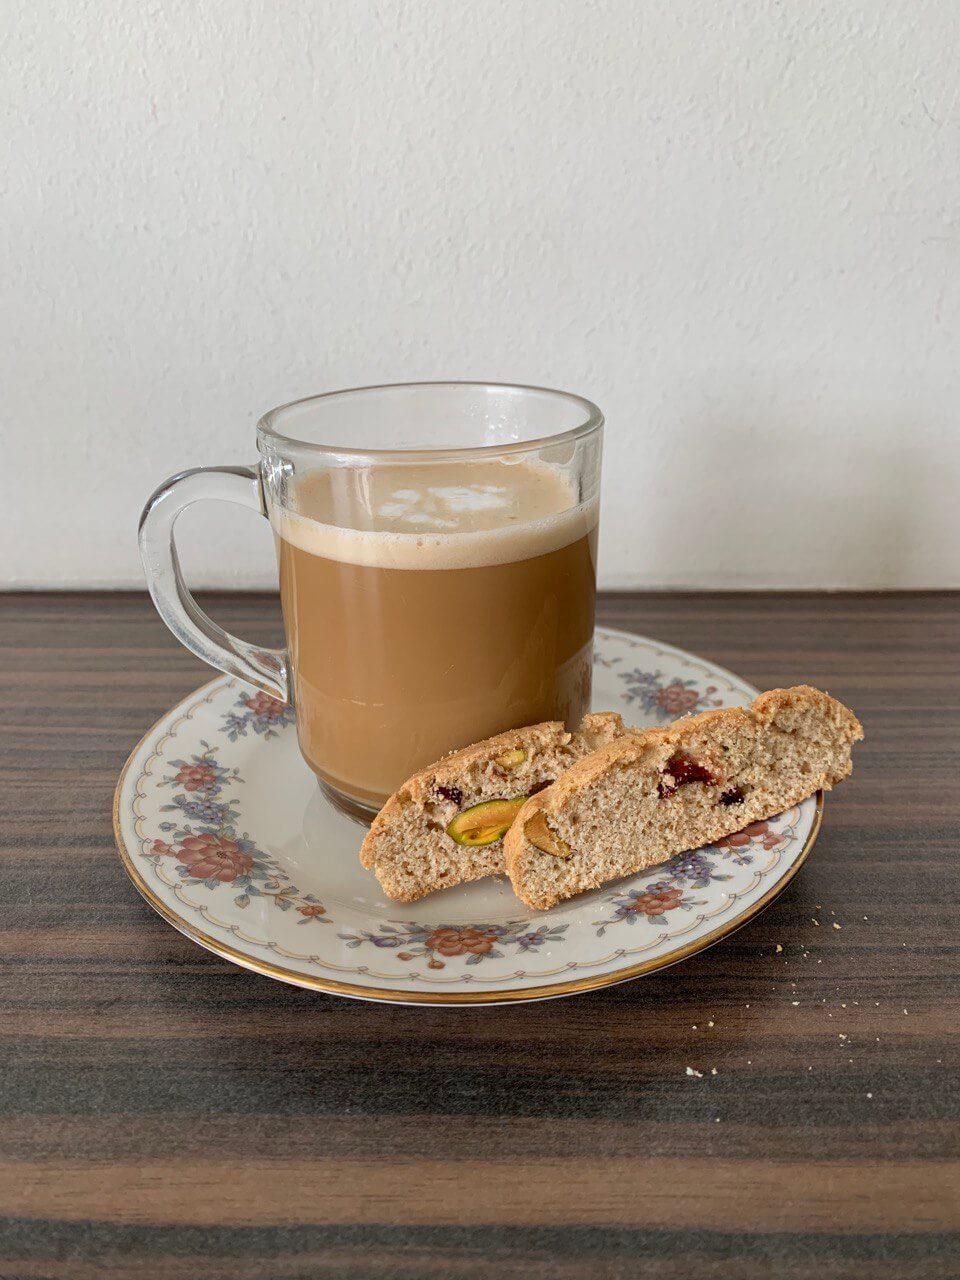
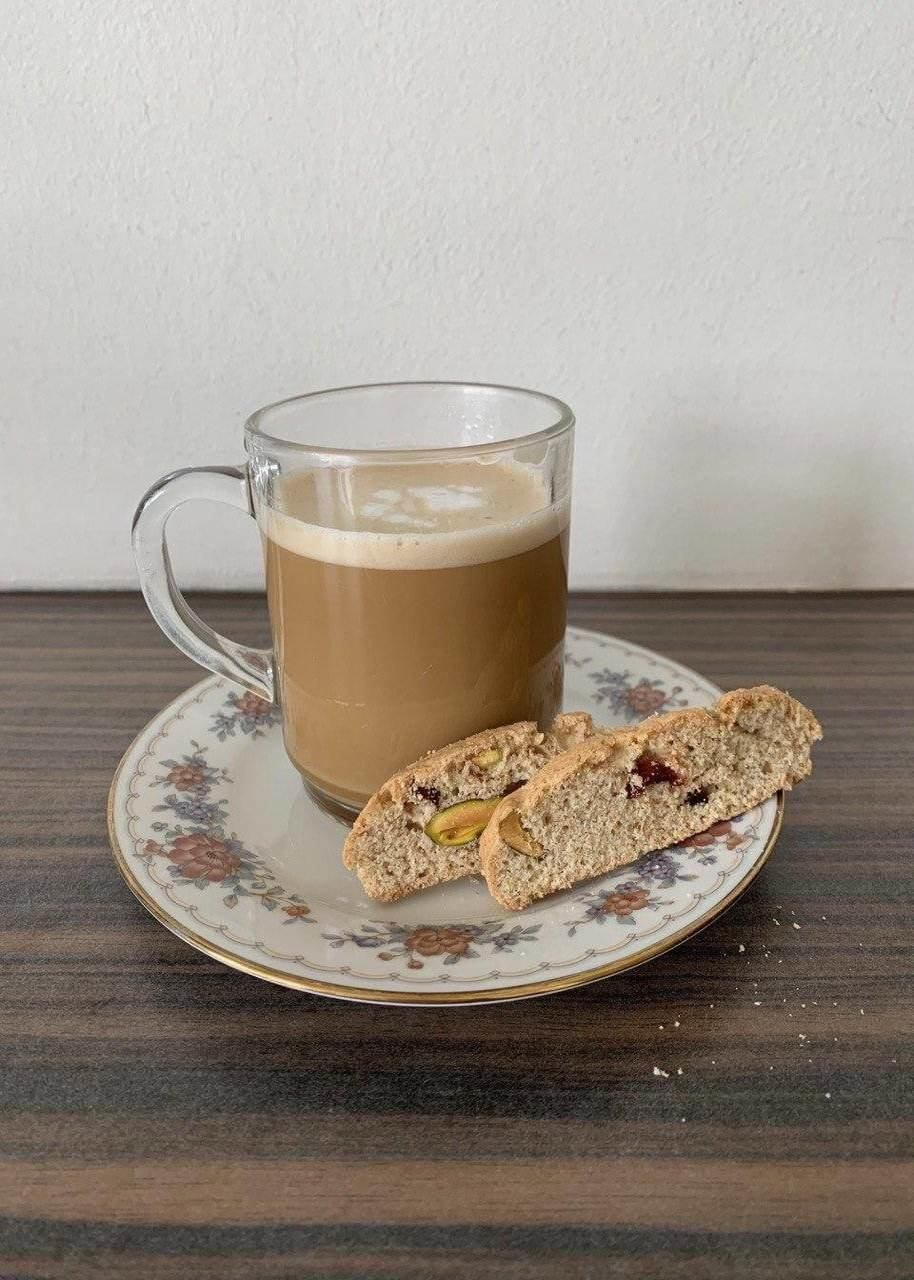
updated images and added lemon cake

diff --git a/templates/products.html b/templates/products.html
@@ -3,7 +3,6 @@
 {% block title %}Products{% endblock %}
 
 {% block main %}
-
 <div class="container justify-content-start p-3">
     <h2 class="p-3">Cookies</h2>
     <div class="row">
@@ -28,9 +27,9 @@
             <div class="card">
                 <a href="/biscotti">
                     <svg class="bd-placeholder-img card-img-top" width="100%" height="180"
-                    xmlns="http://www.w3.org/2000/svg" preserveAspectRatio="xMidYMid slice" focusable="false" role="img"
-                    aria-label="Placeholder: Image cap">
-                    <rect width="100%" height="100%" fill="#868e96"></rect>
+                        xmlns="http://www.w3.org/2000/svg" preserveAspectRatio="xMidYMid slice" focusable="false"
+                        role="img" aria-label="Placeholder: Image cap">
+                        <rect width="100%" height="100%" fill="#868e96"></rect>
                     </svg>
                 </a>
                 <div class="card-body">
@@ -49,26 +48,32 @@
     <div class="card-deck">
         <div class="card">
             <a href="/hummingbird">
-                <svg class="bd-placeholder-img card-img-top" width="100%" height="180" xmlns="http://www.w3.org/2000/svg"
-                preserveAspectRatio="xMidYMid slice" focusable="false" role="img" aria-label="Placeholder: Image cap">
-                <rect width="100%" height="100%" fill="#868e96"></rect>
+                <svg class="bd-placeholder-img card-img-top" width="100%" height="180"
+                    xmlns="http://www.w3.org/2000/svg" preserveAspectRatio="xMidYMid slice" focusable="false" role="img"
+                    aria-label="Placeholder: Image cap">
+                    <rect width="100%" height="100%" fill="#868e96"></rect>
                 </svg>
             </a>
             <div class="card-body">
                 <a href="/hummingbird">
                     <h5 class="card-title">Hummingbird Cake</h5>
                 </a>
-                <p class="card-text">$13/16</p>
+                <p class="card-text">$16</p>
             </div>
         </div>
         <div class="card">
-            <svg class="bd-placeholder-img card-img-top" width="100%" height="180" xmlns="http://www.w3.org/2000/svg"
-                preserveAspectRatio="xMidYMid slice" focusable="false" role="img" aria-label="Placeholder: Image cap">
-                <rect width="100%" height="100%" fill="#868e96"></rect>
-            </svg>
+            <a href="/lemon_cake">
+                <svg class="bd-placeholder-img card-img-top" width="100%" height="180"
+                    xmlns="http://www.w3.org/2000/svg" preserveAspectRatio="xMidYMid slice" focusable="false" role="img"
+                    aria-label="Placeholder: Image cap">
+                    <rect width="100%" height="100%" fill="#868e96"></rect>
+                </svg>
+            </a>
             <div class="card-body">
-                <h5 class="card-title">Lemon Chia Seed Cake</h5>
-                <p class="card-text">$13/16</p>
+                <a href="/lemon_cake">
+                    <h5 class="card-title">Lemon Chia Seed Cake</h5>
+                </a>
+                <p class="card-text">$16</p>
             </div>
         </div>
         <div class="card">
@@ -84,5 +89,4 @@
         </div>
     </div>
 </div>
-
 {% endblock %}

diff --git a/templates/lemon_cake.html b/templates/lemon_cake.html
@@ -1,0 +1,52 @@
+{% extends "layout.html" %}
+
+{% block title %}Lemon Chia Seed Cake{% endblock %}
+
+{% block main %}
+<div class="container">
+    <a href="/products" style="color: black;" class="mx-3 my-3 no-underline">
+        <h6>❮ back to products</h6>
+    </a>
+</div>
+<div class="container" id="lemon_container">
+    <div class="row justify-content-start">
+        <div class="col-sm-4 col-12">
+            <div id="lemon" class="carousel slide" data-ride="carousel">
+                <ol class="carousel-indicators">
+                    <li data-target="#lemon" data-slide-to="0" class="active"></li>
+                    <li data-target="#lemon" data-slide-to="1"></li>
+                </ol>
+                <div class="carousel-inner">
+                    <div class="carousel-item active">
+                        <img src="../static/lemon/lemon_0.jpg" class="d-block w-100" alt="First slide">
+                    </div>
+                    <div class="carousel-item">
+                        <img src="../static/lemon/lemon_1.jpg" class="d-block w-100" alt="Second slide">
+                    </div>
+                </div>
+                <a class="carousel-control-prev" href="#lemon" role="button" data-slide="prev">
+                    <span class="carousel-control-prev-icon" aria-hidden="true"></span>
+                    <span class="sr-only">Previous</span>
+                </a>
+                <a class="carousel-control-next" href="#lemon" role="button" data-slide="next">
+                    <span class="carousel-control-next-icon" aria-hidden="true"></span>
+                    <span class="sr-only">Next</span>
+                </a>
+            </div>
+        </div>
+        <div class="col">
+            <h1>Lemon Chia Seed Cake</h1>
+            <h3 class="mt-sm-5">
+                A lower in fat cake bursting with fresh 
+                lemon flavour, topped with a shiny glaze.
+            </h3>
+            <h4 class="mt-sm-5">
+                <small class="text-muted">white flour, eggs, butter, oil, sugar, greek yoghurt</small>
+                <small class="text-muted">chia seeds, lemon juice, lemon zest</small>
+            </h4>
+            <h2 class="mt-sm-5">$16</h2>
+            <h4>(580g)</h4>
+        </div>
+    </div>
+</div>
+{% endblock %}

diff --git a/templates/ccc.html b/templates/ccc.html
@@ -4,11 +4,13 @@
 
 {% block main %}
 <div class="container">
-    <a href="/products" style="color: black;" class="mx-3 my-3 no-underline"><h5>❮ back to products</h5></a>
+    <a href="/products" style="color: black;" class="mx-3 my-3 no-underline">
+        <h6>❮ back to products</h6>
+    </a>
 </div>
 <div class="container" id="ccc_container">
     <div class="row justify-content-start">
-        <div class="col-sm-5 col-12">
+        <div class="col-sm-4 col-12">
             <div id="ccc" class="carousel slide" data-ride="carousel">
                 <ol class="carousel-indicators">
                     <li data-target="#ccc" data-slide-to="0" class="active"></li>
@@ -18,10 +20,10 @@
                 </ol>
                 <div class="carousel-inner">
                     <div class="carousel-item active">
-                        <img src="../static/ccc/ccc_1.jpg" class="d-block w-100" alt="First slide">
+                        <img src="../static/ccc/ccc_0.jpg" class="d-block w-100" alt="First slide">
                     </div>
                     <div class="carousel-item">
-                        <img src="../static/ccc/ccc_0.jpg" class="d-block w-100" alt="Second slide">
+                        <img src="../static/ccc/ccc_1.jpg" class="d-block w-100" alt="Second slide">
                     </div>
                     <div class="carousel-item">
                         <img src="../static/ccc/ccc_2.jpg" class="d-block w-100" alt="Third slide">

diff --git a/templates/biscotti.html b/templates/biscotti.html
@@ -5,12 +5,12 @@
 {% block main %}
 <div class="container">
     <a href="/products" style="color: black;" class="mx-3 my-3 no-underline">
-        <h5>❮ back to products</h5>
+        <h6>❮ back to products</h6>
     </a>
 </div>
 <div class="container" id="biscotti_container">
     <div class="row justify-content-start">
-        <div class="col-sm-5 col-12">
+        <div class="col-sm-4 col-12">
             <div id="biscotti" class="carousel slide" data-ride="carousel">
                 <ol class="carousel-indicators">
                     <li data-target="#biscotti" data-slide-to="0" class="active"></li>
@@ -18,10 +18,10 @@
                 </ol>
                 <div class="carousel-inner">
                     <div class="carousel-item active">
-                        <img src="../static/biscotti/biscotti_1.jpg" class="d-block w-100" alt="First slide">
+                        <img src="../static/biscotti/biscotti_0.jpg" class="d-block w-100" alt="First slide">
                     </div>
                     <div class="carousel-item">
-                        <img src="../static/biscotti/biscotti_0.jpg" class="d-block w-100" alt="Second slide">
+                        <img src="../static/biscotti/biscotti_1.jpg" class="d-block w-100" alt="Second slide">
                     </div>
                 </div>
                 <a class="carousel-control-prev" href="#biscotti" role="button" data-slide="prev">

diff --git a/templates/hummingbird.html b/templates/hummingbird.html
@@ -5,19 +5,23 @@
 {% block main %}
 <div class="container">
     <a href="/products" style="color: black;" class="mx-3 my-3 no-underline">
-        <h5>❮ back to products</h5>
+        <h6>❮ back to products</h6>
     </a>
 </div>
 <div class="container" id="hummingbird_container">
     <div class="row justify-content-start">
-        <div class="col-sm-5 col-12">
+        <div class="col-sm-4 col-12">
             <div id="hummingbird" class="carousel slide" data-ride="carousel">
                 <ol class="carousel-indicators">
                     <li data-target="#hummingbird" data-slide-to="0" class="active"></li>
+                    <li data-target="#hummingbird" data-slide-to="1"></li>
                 </ol>
                 <div class="carousel-inner">
                     <div class="carousel-item active">
                         <img src="../static/hummingbird/hummingbird_0.jpg" class="d-block w-100" alt="First slide">
+                    </div>
+                    <div class="carousel-item">
+                        <img src="../static/hummingbird/hummingbird_1.jpg" class="d-block w-100" alt="Second slide">
                     </div>
                 </div>
                 <a class="carousel-control-prev" href="#hummingbird" role="button" data-slide="prev">

diff --git a/app.py b/app.py
@@ -25,7 +25,11 @@ def biscotti():
 @app.route("/hummingbird")
 def hummingbird():
     return render_template("hummingbird.html")
-    
+
+@app.route("/lemon_cake")
+def lemon_cake():
+    return render_template("lemon_cake.html")
+
 """ @app.route("/faq")
 def faq():
     return render_template("faq.html") """
